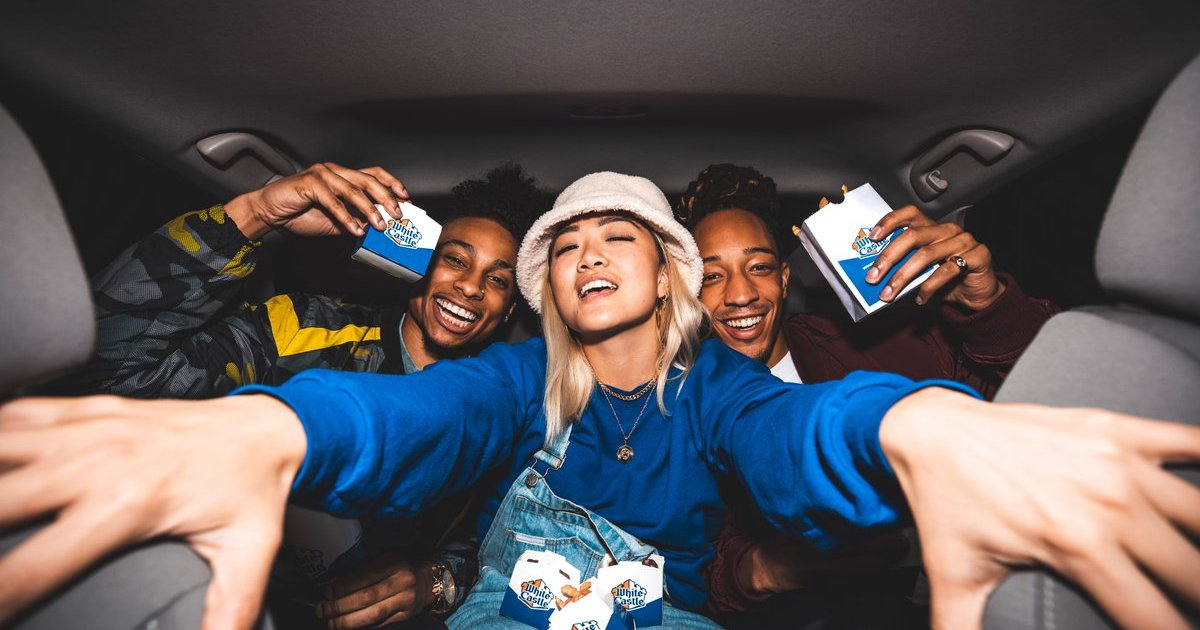
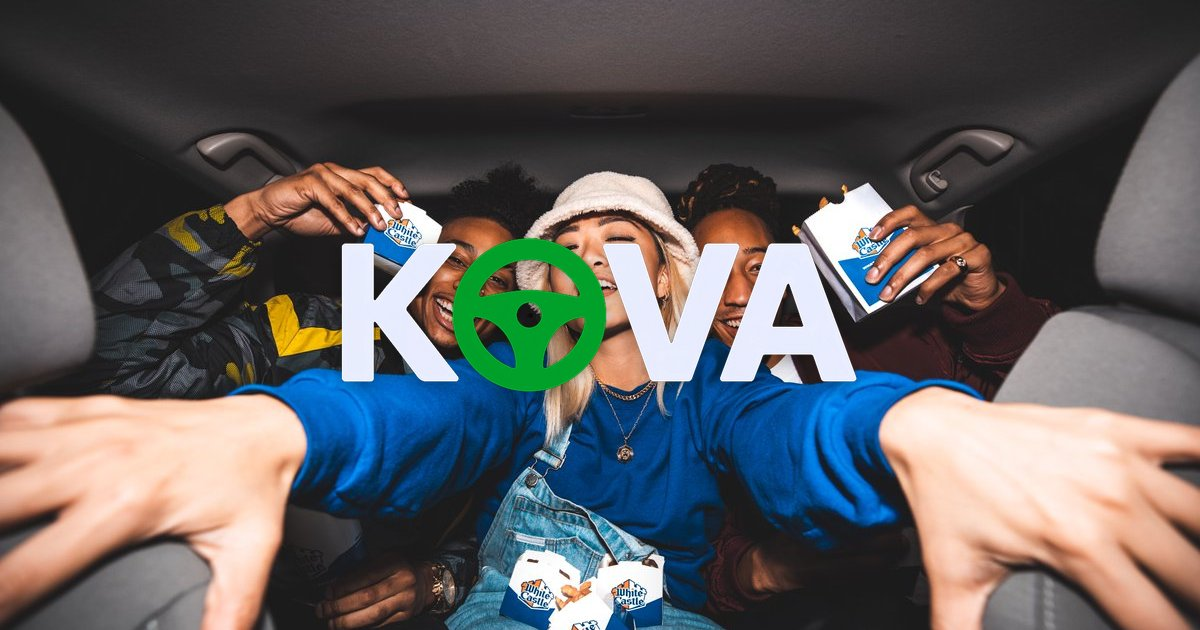
Add centered KOVA wordmark to OG share image
White lettering + green wheel composited dead-center on the
1200x630 share card, with a soft shadow for legibility.

Changed region(s): [[0.2775, 0.3619, 0.74, 0.6333]]

diff --git a/CLAUDE.md b/CLAUDE.md
@@ -174,7 +174,7 @@ Roads (and Lenis) are skipped entirely under `prefers-reduced-motion` (IIFE earl
 
 - `KOVA logo.png` — black "KOVA" text + bright green steering wheel (inverted to white in nav/footer)
 - `favicon.png` — browser-tab icon: just the **green steering wheel** (cropped from `KOVA logo.png`, centered on a transparent 256×256 square). Linked in `<head>` via `<link rel="icon">` + `apple-touch-icon`. The tab **title is `Ride KOVA`**. This is the **tab icon only** — the chat link-preview image is a **separate** file (`og-image.jpg`, below).
-- `og-image.jpg` — **chat link-preview / share card** (NOT the favicon): a dedicated **1200×630** (≈112 KB) crop of `drive pic.jpg`, biased to its `center 40%` framing. Referenced from the `<head>` Open Graph + Twitter Card meta (`og:image` / `twitter:image`, with `og:image:width/height`, `og:type`, `og:title`, `og:description`, `twitter:card=summary_large_image`, plus a `<meta name="description">`). **Image paths are relative** (`og-image.jpg`) so previews resolve on whatever domain serves the page — the site is on Vercel now, moving to **ridekova.com** later (when that's live, optionally add an absolute `og:url`/`og:image` for the few stricter scrapers). Kept ~1200×630 and well under WhatsApp's ~300 KB preview limit. Regenerate with PIL: crop `drive pic.jpg` (1200×800) to 1200×630 at top = `round((800-630)*0.40)`, `quality=85, optimize, progressive`.
+- `og-image.jpg` — **chat link-preview / share card** (NOT the favicon): a **1200×630** (≈108 KB) crop of `drive pic.jpg` (biased to its `center 40%` framing) with the **KOVA wordmark composited dead-centre** (≈520px wide, white lettering + green wheel, a soft drop shadow for legibility over the lighter centre). Referenced from the `<head>` Open Graph + Twitter Card meta (`og:image` / `twitter:image`, with `og:image:width/height`, `og:type`, `og:title`, `og:description`, `twitter:card=summary_large_image`, plus a `<meta name="description">`). **Image paths are relative** (`og-image.jpg`) so previews resolve on whatever domain serves the page — the site is on Vercel now, moving to **ridekova.com** later (when that's live, optionally add an absolute `og:url`/`og:image` for the few stricter scrapers). Kept ~1200×630 and well under WhatsApp's ~300 KB preview limit. Regenerate with PIL: crop `drive pic.jpg` (1200×800) to 1200×630 at top = `round((800-630)*0.40)`, then composite the white logo (CSS `invert(1) hue-rotate(180deg)` replicated as a numpy matrix on the inverted RGB → white text, green wheel) centred, `quality=85, optimize, progressive`. Note: chat platforms cache preview images, so a new card may not show until their cache expires / is re-scraped.
 - `drive pic.jpg` — hero background (was also how-it-works; now hero only). 1200×800, ~130 KB. Also the source for `og-image.jpg`.
 - `hiw-bg.jpg` — how-it-works background
 - `concert pic.jpg` — testimonials background (was also faq; now testimonials only). **Downscaled** 5184×2540 (3.3 MB) → 2560×1254 (~480 KB) — it was a 13-megapixel outlier causing a first-scroll hitch into testimonials
